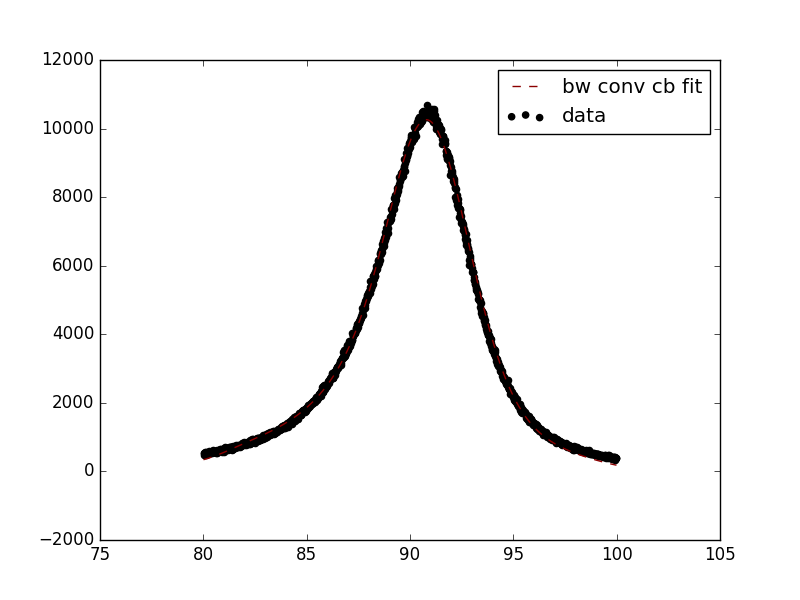
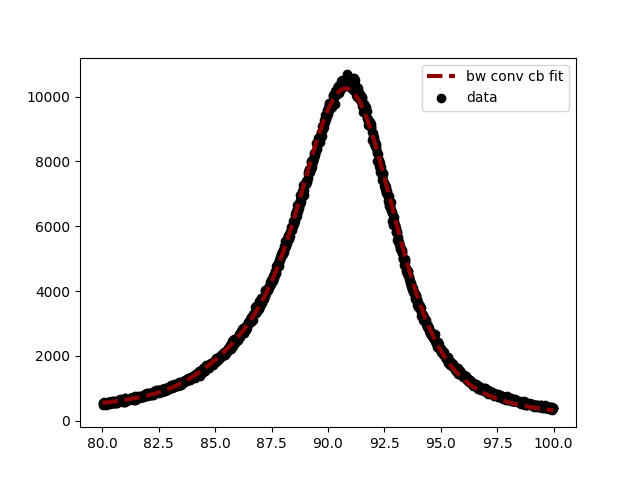
added BW mean as free parameter to fit

diff --git a/bw_conv_cb/python/fit.py b/bw_conv_cb/python/fit.py
@@ -27,8 +27,9 @@ def target(guess):
     global thisCB
     global _DATA_
 
-    thisCB.update(guess)
-    y_vals = np.convolve(thisBW.y,thisCB.getY(),mode='same')
+    thisBW.update(guess[0])
+    thisCB.update(guess[1::])
+    y_vals = np.convolve(thisBW.y,thisCB.y,mode='same')
     y_vals = y_vals/np.sum(y_vals)
 
     return NLL(_DATA_,y_vals)
@@ -40,26 +41,31 @@ def scan(guess):
 
     ret = guess
 
+    scan_cv = np.arange(85,93,0.01)
     scan_alpha = np.arange(0.1,100,0.5)
-    scan_n = np.arange(0.1,100,0.5)
+    scan_n = np.arange(0.1,10,0.5)
     scan_mean = np.arange(-5,5,0.025)
     scan_width = np.arange(0.1,10,0.1)
 
-    guesses_mean = [[ret[0],ret[1],x,ret[3]] for x in scan_mean]
+    guesses_cv = [[x, ret[1], ret[2], ret[3], ret[4]] for x in scan_cv]
+    nll_cv = np.array([target(x) for x in guesses_cv])
+    ret[0] = scan_cv[np.argmin(nll_cv)]
+
+    guesses_mean = [[ret[0], ret[1],x, ret[3], ret[4]] for x in scan_mean]
     nll_mean = np.array([target(x) for x in guesses_mean])
-    ret[2] = scan_mean[np.argmin(nll_mean)]
+    ret[3] = scan_mean[np.argmin(nll_mean)]
 
-    guesses_width = [[ret[0],ret[1],ret[2],x] for x in scan_width]
+    guesses_width = [[ret[0], ret[1], ret[2],ret[3],x] for x in scan_width]
     nll_width = np.array([target(x) for x in guesses_width])
-    ret[3] = scan_width[np.argmin(nll_width)]
+    ret[4] = scan_width[np.argmin(nll_width)]
 
-    guesses_alpha = [[x,ret[1],ret[2],ret[3]] for x in scan_alpha]
+    guesses_alpha = [[ret[0], x,ret[2],ret[3],ret[4]] for x in scan_alpha]
     nll_alpha = np.array([target(x) for x in guesses_alpha])
-    ret[0] = scan_alpha[np.argmin(nll_alpha)]
+    ret[1] = scan_alpha[np.argmin(nll_alpha)]
 
-    guesses_n = [[ret[0],x,ret[2],ret[3]] for x in scan_n]
+    guesses_n = [[ret[0], ret[1],x,ret[3],ret[4]] for x in scan_n]
     nll_n = np.array([target(x) for x in guesses_n])
-    ret[1] = scan_n[np.argmin(nll_n)]
+    ret[2] = scan_n[np.argmin(nll_n)]
   
     return ret
 
@@ -67,32 +73,47 @@ def errors(result,min_chi):
 
     ret = []
 
-    scan_mean = np.arange(-(2*abs(result[2])),2*abs(result[2]),0.0001)
-    scan_width = np.arange(0.0001,2*result[3],0.0001)
+    scan_cv = np.arange(result[0]-2*result[4], result[0]+2*result[4], 0.0001)
+    scan_mean = np.arange(-(2*abs(result[3])),2*abs(result[3]),0.0001)
+    scan_width = np.arange(0.0001,2*result[4],0.0001)
 
-    par_set_mean = [[result[0],result[1],x,result[3]] for x in scan_mean]
-    par_set_width = [[result[0],result[1],result[2],x] for x in scan_width]
+    par_set_cv = [[x ,result[1], result[2], result[3], result[4]] for x in scan_cv]
+    par_set_mean = [[result[0],result[1],result[2],x,result[4]] for x in scan_mean]
+    par_set_width = [[result[0],result[1],result[2],result[3],x] for x in scan_width]
 
+    chi_cv = np.array([target(x) for x in par_set_cv])
     chi_mean = np.array([target(x) for x in par_set_mean])
     chi_width = np.array([target(x) for x in par_set_width])
 
-    sigma_mask_mean = chi_mean >= np.e * min_chi
-    sigma_mask_width = chi_width >= np.e * min_chi
+    sigma_mask_cv = chi_cv >= np.e * min(chi_cv)
+    sigma_mask_mean = chi_mean >= np.e * min(chi_mean)
+    sigma_mask_width = chi_width >= np.e * min(chi_width)
+
+    val = []
+    for i in range(len(sigma_mask_cv)-1):
+        if sigma_mask_cv[i] and not sigma_mask_cv[i+1]:
+            val.append(result[0]-scan_cv[i])
+        if not sigma_mask_cv[i] and sigma_mask_cv[i+1]:
+            val.append(scan_cv[i]-result[0])
+            break
+    ret.append(val)
 
     val = []
     for i in range(len(sigma_mask_mean)-1):
         if sigma_mask_mean[i] and not sigma_mask_mean[i+1]:
-            val.append(result[0]-scan_mean[i])
+            val.append(result[3]-scan_mean[i])
         if not sigma_mask_mean[i] and sigma_mask_mean[i+1]:
-            val.append(scan_mean[i]-result[0])
+            val.append(scan_mean[i]-result[3])
+            break
     ret.append(val)
 
     val = []
     for i in range(len(sigma_mask_width)-1):
         if sigma_mask_width[i] and not sigma_mask_width[i+1]:
-            val.append(result[0]-scan_width[i])
+            val.append(result[4]-scan_width[i])
         if not sigma_mask_width[i] and sigma_mask_width[i+1]:
-            val.append(scan_width[i]-result[0])
+            val.append(scan_width[i]-result[4])
+            break
     ret.append(val)
 
     return ret
@@ -105,11 +126,12 @@ def fit(x,y):
     
     #make bw distribution
     _DATA_ = y
-    mean = np.average(x,weights=y)-91.188
+    cv = 91.188
+    mean = 91.188 - np.average(x,weights=y)
     width = np.sqrt(np.average(np.multiply(x-np.average(x,weights=y),x-np.average(x,weights=y)), weights=y))
-    guess = [1.424,1.86,mean,width]
+    guess = [cv, 1.424,1.86,mean,width]
 
-    bounds = [(0.01,100), (0.01,100), (-5,5), (0.1,10)]
+    bounds = [(86, 92), (0.01,100), (0.01,10), (-5,5), (0.1,10)]
 
     thisBW = breitWigner.bw(x)
     thisCB = crystalBall.cb(x, guess)
@@ -125,15 +147,16 @@ def fit(x,y):
             )
 
     print(result)
-    thisCB.update(result.x)
-    y_vals = np.convolve(thisBW.getY(),thisCB.getY(),mode='same')
+    thisBW.update(result.x[0])
+    thisCB.update(result.x[1::])
+    y_vals = np.convolve(thisBW.y,thisCB.y,mode='same')
     y_vals = np.sum(y)*y_vals/np.sum(y_vals)
     chi_sqr = np.sum(np.divide(np.multiply(y-y_vals,y-y_vals),y))/len(y)
     uncertainties = errors(result.x, result.fun) 
 
     print("minimization complete:")
-    print("mu:", 91.188+result.x[2], "+/-", min(np.abs(uncertainties[0][0]),np.abs(uncertainties[0][1]) ))
-    print("sigma:", result.x[3], "+/-", min(np.abs(uncertainties[1][0]),np.abs(uncertainties[1][1])))
+    print("mu:", result.x[0]+result.x[3], "+/-", np.sqrt(max(np.abs(uncertainties[0][0]),np.abs(uncertainties[0][1]) )**2 + max(np.abs(uncertainties[1][0]),np.abs(uncertainties[1][1]) ) ))
+    print("sigma:", result.x[4], "+/-", max(np.abs(uncertainties[2][0]),np.abs(uncertainties[2][1])))
     print("reduced chi squared:", chi_sqr)
     print()
     print("plotting")
@@ -148,6 +171,7 @@ def fit(x,y):
             y_vals,
             label='bw conv cb fit',
             color='darkred',
+            linewidth=3,
             linestyle='dashed')
     axs.legend(loc='best')
     fig.savefig("fit.png")

diff --git a/bw_conv_cb/python/breitWigner.py b/bw_conv_cb/python/breitWigner.py
@@ -5,17 +5,22 @@ class bw:
     produces a relativistic Breit-Wigner distribution
     """
 
-    def getY(self):
-        gamma = np.sqrt(self.mean**2*(self.mean**2+self.width**2))
+    def setY(self):
+        gamma = self.mean*np.sqrt((self.mean**2+self.width**2))
         k = 2*np.sqrt(2)*self.mean*self.width*gamma/(np.pi*np.sqrt(self.mean**2+gamma))
         self.y = k/(np.multiply(np.multiply(self.x,self.x)-self.mean**2,np.multiply(self.x,self.x)-self.mean**2)+self.mean**2 * self.width**2)
-        return self.y/np.sum(self.y)
+        self.y = self.y/np.sum(self.y)
 
     def __init__(self, x):
         self.x = np.array(x)
         self.mean = 91.188
         self.width = 2.4952
-        self.y = self.getY()
+        self.y = []
+        self.setY()
+
+    def update(self, mean):
+        self.mean = mean
+        self.setY()
 
     def __delete__(self):
         del self.x

diff --git a/bw_conv_cb/python/crystalBall.py b/bw_conv_cb/python/crystalBall.py
@@ -35,11 +35,11 @@ class cb:
         mask_geq = (self.x-self.mean)/self.width > -1*self.alpha
         self.y = np.array([geq[i] if mask_geq[i] else leq[i] for i in range(len(mask_geq))])
         self.y = self.y/np.sum(self.y)
-        return self.y
 
     def update(self, pars):
         self.alpha = pars[0]
         self.n = pars[1]
         self.mean = pars[2]
         self.width = pars[3]
+        self.getY()
 
